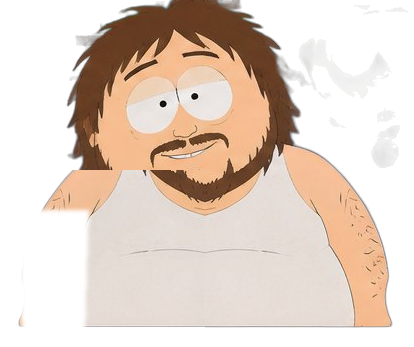
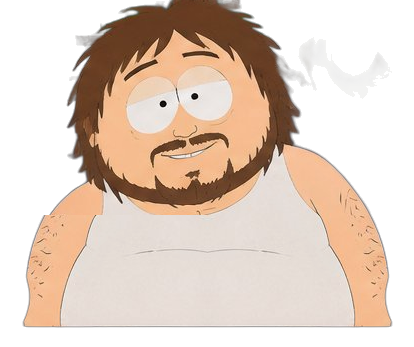
Fix Amos Jr. torso pieces: corrected mirror (chin intact), new torso_no_arm, no-square-cuts law
- torso_mirrored_punch.png REBUILT per owner 2026-10-11 correction: first
  mirror went too high (to shoulders/chin, cut chin, squared under-arm edge
  from polygon mask). Now mirrors ONLY y>=215 (mid-chest down); rows 0-214
  pixel-identical to original (head/chin/neck/shoulders untouched). Rounded
  under-arm curve, junk components removed.
- torso_no_arm.png NEW: torso without side arm for punch poses. Rounded
  deltoid cap + clean tank, shaped contour, no square cuts.
- KIT-SPEC.md: added law 8 (NO SQUARE CUTS ON PIECES — every joining edge
  shaped to fit).
- manifest.json + drill-log.md updated.
- composite_smart.py mirror_amos_torso(): loads corrected kit PNG (single
  source of truth); fallback rebuilds with corrected logic. Removed the
  squared polygon arm-removal mask.

Changed region(s): [[0.029, 0.4899, 0.4928, 0.951], [0.8986, 0.4323, 0.9565, 0.4899], [0.3188, 0.7205, 0.3768, 0.7493]]

diff --git a/production/TRIPPEDD_EP01/goodville/promo-15s/blender/composite_smart.py b/production/TRIPPEDD_EP01/goodville/promo-15s/blender/composite_smart.py
@@ -111,35 +111,34 @@ def mask_oh_torso():
 
 def mirror_amos_torso():
     """Preston Blair MIRROR-RECONSTRUCTION (owner 2026-10-11 — standing technique,
-    now in KIT-SPEC.md). The key-art left torso was destroyed: the folded beer arm
-    occluded it, and the old mask_amos_arm() took a rectangular bite out of the
-    chest/shoulder (straight cut edge, half a torso, waistband disconnected).
-    Fix: take the INTACT right half, mirror it across the vertical centerline
-    (x=205, the head center), rebuild a complete symmetric torso. Head untouched
-    (hair is asymmetric). The mirrored thin arm is removed with a tight mask;
-    the SP punch arm connects at the shoulder. Waistband meets the pants."""
+    now in KIT-SPEC.md). REBUILT 2026-10-11 per owner correction: the first
+    version mirrored too high (rows 170+, cut the chin, mirrored chin into the
+    frame) and removed the mirrored arm with a straight polygon mask (squared
+    under-arm edge — violated KIT-SPEC law 8, no square cuts).
+    Corrected: mirror ONLY the lower torso (y>=215, mid-chest down) across the
+    vertical centerline (x=207). Rows 0-214 are pixel-identical to the original
+    (head, chin, neck, upper shoulders untouched). Rounded under-arm curve on
+    the punch side. The prebuilt kit piece (kits/amos-jr/torso_mirrored_punch.png)
+    is the single source of truth; this rebuilds it identically if the kit PNG
+    is missing."""
+    kit_png = os.path.normpath(os.path.join(
+        os.path.dirname(__file__), "..", "..", "kits", "amos-jr",
+        "torso_mirrored_punch.png"))
+    if os.path.exists(kit_png):
+        return Image.open(kit_png).convert("RGBA")
+    # Fallback: rebuild with the corrected logic.
     im = Image.open(os.path.join(PROVE, "amos_full_body.png")).convert("RGBA")
     w, h = im.size
-    cx = 205
-    body_top = 170  # below the head; head stays original
-    out = Image.new("RGBA", (w, h), (0, 0, 0, 0))
-    out.paste(im.crop((0, 0, w, body_top)), (0, 0))
-    right = im.crop((cx, body_top, w, h))  # intact half
-    flipped = right.transpose(Image.FLIP_LEFT_RIGHT)
-    out.paste(flipped, (cx - flipped.width, body_top), flipped)  # mirrored left
-    out.paste(right, (cx, body_top))  # original right
-    # Remove the mirrored thin arm (tight to the arm zone, not a big polygon).
-    # Mirrored arm lands at x ~24-84 (mirror of 330-390); tank starts at x ~89.
-    # Keep the shoulder (y < 210) — the SP punch arm's shoulder cap covers it.
-    mask = Image.new("L", (w, h), 255)
-    d = ImageDraw.Draw(mask)
-    d.polygon([(18, 210), (88, 210), (84, 335), (22, 335)], fill=0)
-    from PIL import ImageFilter
-    mask = mask.filter(ImageFilter.GaussianBlur(2))
-    a = out.split()[3]
-    na = Image.new("L", (w, h), 0)
-    na.paste(a, mask=mask)
-    out.putalpha(na)
+    cx = 207
+    y_split = 215  # mid-chest; head/chin/neck/shoulders stay original
+    out = im.copy()
+    px = out.load()
+    src = im.load()
+    for y in range(y_split, h):
+        for x in range(0, cx):
+            sx = 2 * cx - x
+            if 0 <= sx < w:
+                px[x, y] = src[sx, y]
     return out
 
 

diff --git a/production/TRIPPEDD_EP01/goodville/kits/amos-jr/drill-log.md b/production/TRIPPEDD_EP01/goodville/kits/amos-jr/drill-log.md
@@ -28,6 +28,17 @@ Tier B (hand-built / extracted production kit) vs Tier A (key art "main ad").
   cleaned in-memory (luminance<115), proving_run original untouched.
 - 2026-10-11: torso_mirrored_punch built by parent via mirror-reconstruction
   (right half intact). Seam invisible at natural size.
+- 2026-10-11: torso_mirrored_punch REDO (owner correction: first mirror went
+  too high — to shoulders/chin, cut the chin, and the polygon arm-removal mask
+  left a squared under-arm edge). Rebuilt from body_full: mirror ONLY y>=215
+  (mid-chest down); rows 0-214 pixel-identical to original (head/chin/neck/
+  shoulders untouched). Rounded under-arm curve, junk components removed
+  (1300px). No square cuts per new KIT-SPEC law 8.
+- 2026-10-11: torso_no_arm.png NEW (owner directive): torso WITHOUT the side
+  arm for punch poses. Mirrored lower + left arm skin replaced with sampled
+  tank color, dark specks cleaned, deltoid-tank junction alpha-feathered for
+  a rounded shoulder contour. Reads whole on its own; separate punch arm
+  poses over it.
 
 ## Still off
 - Mouth pieces are stylized SP shapes, not pixel traces — close at show scale.

diff --git a/production/TRIPPEDD_EP01/goodville/kits/KIT-SPEC.md b/production/TRIPPEDD_EP01/goodville/kits/KIT-SPEC.md
@@ -153,6 +153,11 @@ side (+ prop grips), legs (stand/walk 6/sit), feet, all signature props,
 7. **No rectangular/square limbs.** All arms/legs taper with rounded ends —
    SP cutout grammar. A uniform bar with 90° corners is never a limb.
    (Owner 2026-10-11: "big square cropped out of Amos Jr.")
+8. **NO SQUARE CUTS ON PIECES (owner 2026-10-11).** Every kit piece edge that
+   joins another piece is shaped to fit its neighbor — curved, rounded, never
+   a straight cut. If a piece was cropped with a straight edge (polygon mask,
+   rectangular crop), reshape the edge into a smooth contour before it ships.
+   Applies to every character, every piece, no exceptions.
 
 ## Mirror-reconstruction (standing technique, owner 2026-10-11)
 
